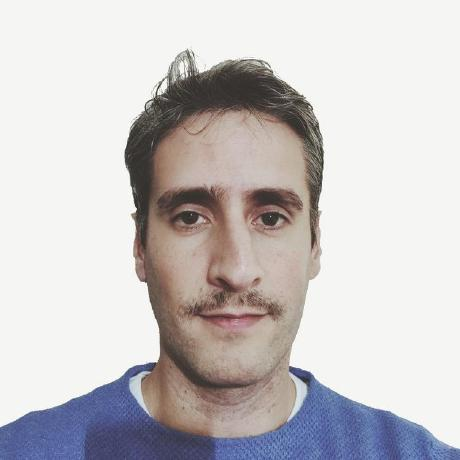
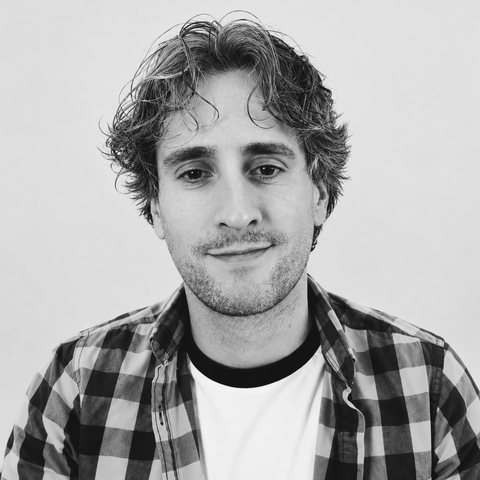
Use the LinkedIn photo as portrait and feature Wahoo second
Stop overwriting the portrait with the GitHub avatar on --refresh-github.

diff --git a/build.py b/build.py
@@ -229,17 +229,6 @@ def fetch_github(user: str, token: str | None) -> dict:
     }
 
 
-def download_avatar(url: str) -> None:
-    target = SRC / "img" / "avatar.jpg"
-    try:
-        req = urllib.request.Request(f"{url}&s=480" if "?" in url else f"{url}?s=480",
-                                     headers={"User-Agent": "portfolio-build"})
-        with urllib.request.urlopen(req, timeout=20) as resp:
-            target.write_bytes(resp.read())
-    except Exception as e:
-        warn(f"avatar download failed, keeping the existing one: {e}")
-
-
 def load_github(refresh: bool, release: bool, user: str) -> dict:
     cache = DATA / "github.json"
     if refresh:
@@ -247,8 +236,8 @@ def load_github(refresh: bool, release: bool, user: str) -> dict:
             data = fetch_github(user, os.environ.get("GITHUB_TOKEN"))
             DATA.mkdir(exist_ok=True)
             cache.write_text(json.dumps(data, indent=1, ensure_ascii=False), encoding="utf-8", newline="\n")
-            if data["profile"].get("avatar_url"):
-                download_avatar(data["profile"]["avatar_url"])
+            # The portrait (src/img/avatar.jpg) is the LinkedIn photo, kept in the repo:
+            # never overwrite it with the GitHub avatar.
             return data
         except (urllib.error.URLError, KeyError, TimeoutError) as e:
             if release and not cache.exists():
